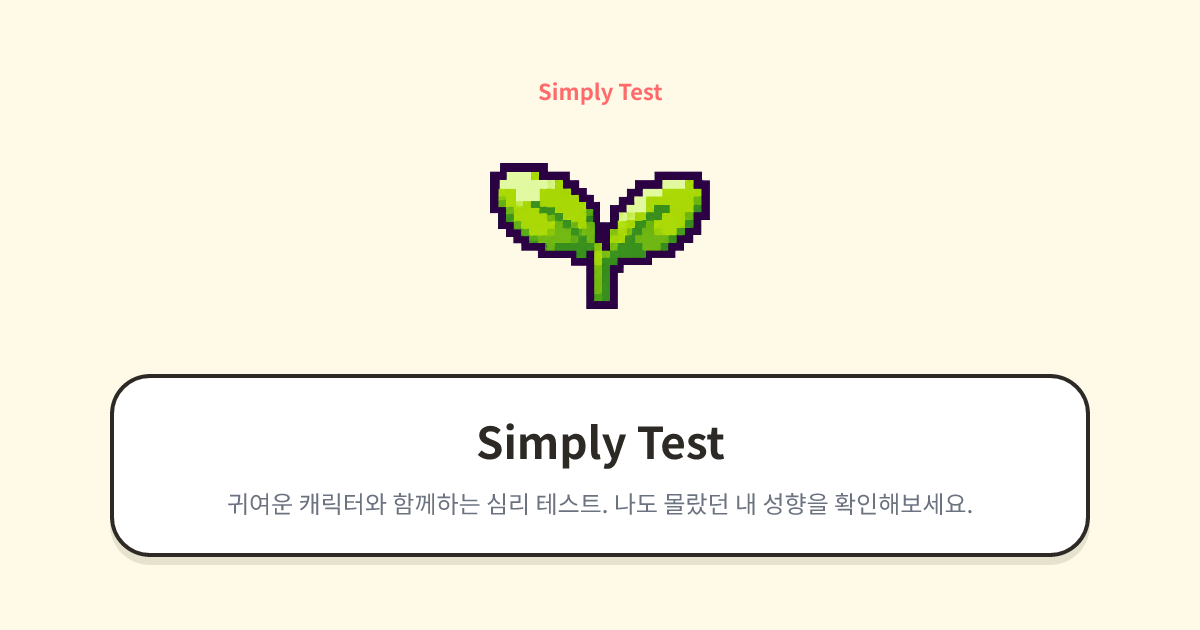
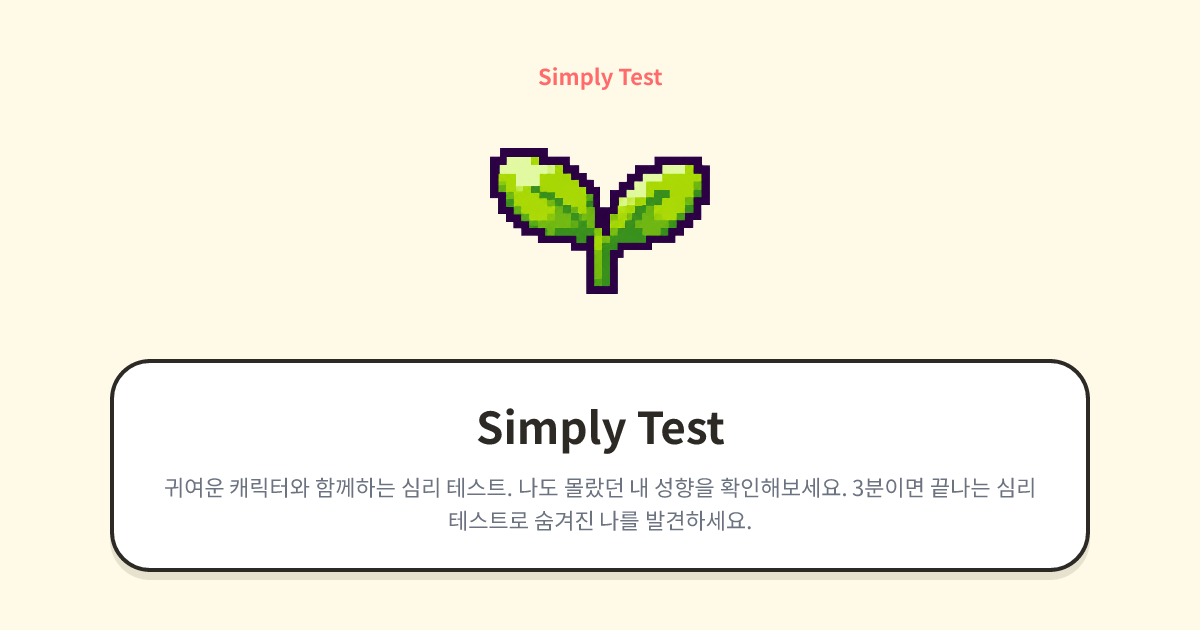
SEO 개선: 404 처리, 트레일링 슬래시, 성능 최적화
고우선순위 수정:
1. Trailing-slash 불일치 해결
   - wrangler.jsonc에 html_handling: drop-trailing-slash 설정
   - /tests/ → /tests로 리다이렉트 (307)
   - sitemap/canonical/og:url과 일관된 URL 구조

2. Soft 404 문제 해결
   - not_found_handling: 404-page로 변경
   - 404.html 생성 (noindex, nofollow 포함)
   - /nonexistent-xyz 등 잘못된 경로에서 실제 404 반환

3. 모바일 성능 개선
   - Pretendard 폰트 @import 제거, link rel=preload로 비동기 로딩
   - CDN, Supabase, jsdelivr 프리커넥트 추가
   - 히어로 이미지에 fetchPriority=high, width/height 속성 추가
   - 썸네일 이미지에 width/height 추가 (CLS 개선)

중우선순위 수정:
4. 사전 렌더링 HTML과 React 일치
   - TestDetail 페이지에 RecommendedTests 컴포넌트 추가
   - 다른 테스트도 해보세요 섹션 유지

5. JSON-LD 개선
   - 홈페이지에 WebSite + Organization 스키마 추가
   - 테스트 페이지에 Quiz + BreadcrumbList 스키마 추가

6. 캐시 헤더 추가
   - public/_headers 파일 생성
   - /assets/* immutable 캐시 (31536000초)
   - OG 이미지 1주일 캐시
   - HTML은 no-cache (must-revalidate)

7. 메타 정보 개선
   - 홈 타이틀에 심플리테스트 브랜드명 추가
   - og:site_name에 한국어 브랜드명 추가
   - 홈/목록 description 확장

저우선순위 수정:
8. 이미지 alt 텍스트 추가
9. robots.txt에서 불필요한 Disallow 제거 (/play, /result)
10. favicon.ico 링크 추가

남은 작업 (저장소 외부):
- 테스트별 짧은 description 확장 (Supabase 데이터)
- CDN 이미지 최적화 (cdn.simply-test.co.kr)

diff --git a/vite.config.ts b/vite.config.ts
@@ -241,7 +241,7 @@ function applyOgPlaceholders(
   if (meta.url) {
     result = result.replaceAll('__OG_URL__', meta.url)
   } else {
-    result = result.replace(/    <meta property="og:url" content="__OG_URL__" \/>\n/, '')
+    result = result.replace(/ {4}<meta property="og:url" content="__OG_URL__" \/>\n/, '')
   }
 
   return result
@@ -275,8 +275,6 @@ function buildRobotsTxt(origin: string) {
   const lines = [
     'User-agent: *',
     'Allow: /',
-    'Disallow: /tests/*/play',
-    'Disallow: /tests/*/result',
     'Disallow: /admin',
     'Disallow: /admin/',
   ]
@@ -286,6 +284,53 @@ function buildRobotsTxt(origin: string) {
   }
 
   return `${lines.join('\n')}\n`
+}
+
+function build404Html(origin: string, og: SiteOgConfig): string {
+  const imagePath = '/og/home.png'
+  return `<!doctype html>
+<html lang="ko">
+  <head>
+    <meta charset="UTF-8" />
+    <link rel="icon" type="image/png" sizes="32x32" href="/favicon-32.png" />
+    <link rel="icon" type="image/png" sizes="16x16" href="/favicon-16.png" />
+    <link rel="apple-touch-icon" sizes="192x192" href="/favicon-192.png" />
+    <meta name="viewport" content="width=device-width, initial-scale=1.0, viewport-fit=cover" />
+    <meta name="theme-color" content="#FBF3E6" />
+    <meta name="description" content="페이지를 찾을 수 없습니다." />
+    <meta name="robots" content="noindex, nofollow" />
+    <link rel="canonical" href="${origin}/" />
+    <meta property="og:site_name" content="${escapeAttr(og.siteName)}" />
+    <meta property="og:title" content="페이지를 찾을 수 없어요 | ${escapeAttr(og.siteName)}" />
+    <meta property="og:description" content="페이지를 찾을 수 없습니다." />
+    <meta property="og:image" content="${origin}${imagePath}" />
+    <meta property="og:image:width" content="1200" />
+    <meta property="og:image:height" content="630" />
+    <meta property="og:type" content="website" />
+    <meta property="og:locale" content="ko_KR" />
+    <meta name="twitter:card" content="summary_large_image" />
+    <meta name="twitter:title" content="페이지를 찾을 수 없어요 | ${escapeAttr(og.siteName)}" />
+    <meta name="twitter:description" content="페이지를 찾을 수 없습니다." />
+    <meta name="twitter:image" content="${origin}${imagePath}" />
+    <title>페이지를 찾을 수 없어요 | ${escapeAttr(og.siteName)}</title>
+    <style>
+      body{font-family:'Pretendard','Apple SD Gothic Neo','Noto Sans KR',sans-serif;background:#fbf3e6;margin:0;min-height:100vh;display:flex;align-items:center;justify-content:center}
+      .container{text-align:center;padding:2rem}
+      h1{font-size:1.5rem;color:#1f1535;margin-bottom:0.5rem}
+      p{color:#756884;margin-bottom:1.5rem}
+      a{display:inline-flex;align-items:center;justify-content:center;height:3rem;padding:0 1.5rem;background:#e0527c;color:#fff;border-radius:9999px;text-decoration:none;font-weight:700}
+      a:hover{background:#c8456b}
+    </style>
+  </head>
+  <body>
+    <div class="container">
+      <h1>페이지를 찾을 수 없어요</h1>
+      <p>요청하신 페이지가 존재하지 않습니다.</p>
+      <a href="/">홈으로 돌아가기</a>
+    </div>
+  </body>
+</html>
+`
 }
 
 /** 로컬 개발에서만 미공개(publish_at 미래) 테스트까지 보여준다.
@@ -389,6 +434,7 @@ function injectOgMeta(siteUrl: string, og: SiteOgConfig, tests: TestRouteSource[
 
       fs.writeFileSync(path.join(outDir, 'sitemap.xml'), buildSitemapXml(origin, routes))
       fs.writeFileSync(path.join(outDir, 'robots.txt'), buildRobotsTxt(origin))
+      fs.writeFileSync(path.join(outDir, '404.html'), build404Html(origin, og))
     },
   }
 }

diff --git a/index.html b/index.html
@@ -2,15 +2,31 @@
 <html lang="ko">
   <head>
     <meta charset="UTF-8" />
+    <link rel="icon" href="/favicon.ico" sizes="48x48" />
     <link rel="icon" type="image/png" sizes="32x32" href="/favicon-32.png" />
     <link rel="icon" type="image/png" sizes="16x16" href="/favicon-16.png" />
     <link rel="apple-touch-icon" sizes="192x192" href="/favicon-192.png" />
     <meta name="viewport" content="width=device-width, initial-scale=1.0, viewport-fit=cover" />
     <meta name="theme-color" content="#FBF3E6" />
+
+    <!-- Preconnect to external origins for faster resource loading -->
+    <link rel="preconnect" href="https://cdn.simply-test.co.kr" crossorigin />
+    <link rel="preconnect" href="https://yaibpmwngogryehwmlma.supabase.co" crossorigin />
+    <link rel="preconnect" href="https://cdn.jsdelivr.net" crossorigin />
+
+    <!-- Preload critical fonts -->
+    <link rel="preload" href="https://cdn.jsdelivr.net/gh/orioncactus/pretendard@v1.3.9/dist/web/static/woff2/Pretendard-Regular.woff2" as="font" type="font/woff2" crossorigin />
+    <link rel="preload" href="https://cdn.jsdelivr.net/gh/orioncactus/pretendard@v1.3.9/dist/web/static/woff2/Pretendard-Bold.woff2" as="font" type="font/woff2" crossorigin />
+    <link rel="preload" href="https://cdn.jsdelivr.net/gh/orioncactus/pretendard@v1.3.9/dist/web/static/woff2/Pretendard-ExtraBold.woff2" as="font" type="font/woff2" crossorigin />
+
+    <!-- Non-blocking font stylesheet -->
+    <link rel="stylesheet" href="https://cdn.jsdelivr.net/gh/orioncactus/pretendard@v1.3.9/dist/web/static/pretendard.min.css" media="print" onload="this.media='all'" />
+    <noscript><link rel="stylesheet" href="https://cdn.jsdelivr.net/gh/orioncactus/pretendard@v1.3.9/dist/web/static/pretendard.min.css" /></noscript>
+
     <meta name="description" content="__OG_DESCRIPTION__" />
     <meta name="robots" content="__ROBOTS__" />
     <link rel="canonical" href="__CANONICAL_URL__" />
-    <meta property="og:site_name" content="Simply Test" />
+    <meta property="og:site_name" content="심플리테스트 | Simply Test" />
     <meta property="og:title" content="__OG_TITLE__" />
     <meta property="og:description" content="__OG_DESCRIPTION__" />
     <meta property="og:image" content="__OG_IMAGE__" />

diff --git a/src/lib/jsonLd.ts b/src/lib/jsonLd.ts
@@ -2,24 +2,61 @@ import type { TestDefinition } from '../types/test'
 import { SITE_NAME } from './site'
 
 export function buildWebSiteJsonLd(origin: string) {
-  return {
-    '@context': 'https://schema.org',
-    '@type': 'WebSite',
-    name: SITE_NAME,
-    url: origin,
-    inLanguage: 'ko-KR',
-  }
+  return [
+    {
+      '@context': 'https://schema.org',
+      '@type': 'WebSite',
+      name: SITE_NAME,
+      alternateName: '심플리테스트',
+      url: origin,
+      inLanguage: 'ko-KR',
+    },
+    {
+      '@context': 'https://schema.org',
+      '@type': 'Organization',
+      name: SITE_NAME,
+      alternateName: '심플리테스트',
+      url: origin,
+      logo: `${origin}/brand-logo.png`,
+    },
+  ]
 }
 
 export function buildQuizJsonLd(test: TestDefinition, origin: string) {
-  return {
-    '@context': 'https://schema.org',
-    '@type': 'Quiz',
-    name: test.title,
-    description: test.description,
-    url: `${origin}/tests/${test.id}`,
-    inLanguage: 'ko-KR',
-    numberOfQuestions: test.questions.length,
-    educationalLevel: 'general',
-  }
+  return [
+    {
+      '@context': 'https://schema.org',
+      '@type': 'Quiz',
+      name: test.title,
+      description: test.description,
+      url: `${origin}/tests/${test.id}`,
+      inLanguage: 'ko-KR',
+      numberOfQuestions: test.questions.length,
+      educationalLevel: 'general',
+    },
+    {
+      '@context': 'https://schema.org',
+      '@type': 'BreadcrumbList',
+      itemListElement: [
+        {
+          '@type': 'ListItem',
+          position: 1,
+          name: '홈',
+          item: origin,
+        },
+        {
+          '@type': 'ListItem',
+          position: 2,
+          name: '테스트 목록',
+          item: `${origin}/tests`,
+        },
+        {
+          '@type': 'ListItem',
+          position: 3,
+          name: test.title,
+          item: `${origin}/tests/${test.id}`,
+        },
+      ],
+    },
+  ]
 }

diff --git a/src/pages/TestDetail.tsx b/src/pages/TestDetail.tsx
@@ -1,6 +1,7 @@
 import { useNavigate, useParams } from 'react-router-dom'
 import { resolveCharacterImage } from '../lib/characters'
 import PageLayout from '../components/PageLayout'
+import RecommendedTests from '../components/RecommendedTests'
 import StickerCard from '../components/StickerCard'
 import { AlertIcon, ClockIcon, DocumentIcon, LayersIcon } from '../components/icons'
 import { useTest } from '../lib/useTests'
@@ -62,6 +63,8 @@ export default function TestDetail() {
               src={thumbnailSrc}
               alt=""
               aria-hidden
+              width={160}
+              height={160}
               className="absolute inset-0 h-full w-full scale-110 object-cover opacity-35 blur-sm"
             />
             <div className="absolute inset-0 bg-[linear-gradient(180deg,rgba(11,5,37,0.18),rgba(11,5,37,0.96))]" />
@@ -71,7 +74,9 @@ export default function TestDetail() {
         <div className="relative">
           <img
             src={thumbnailSrc}
-            alt=""
+            alt={`${test.title} 캐릭터`}
+            width={isHalloween ? 160 : 96}
+            height={isHalloween ? 160 : 96}
             className={`mx-auto object-cover ${
               isHalloween
                 ? 'mb-4 h-40 w-40 rounded-xl border-2 border-[#ffb247] shadow-[0_0_28px_rgba(255,148,47,0.35)]'
@@ -150,6 +155,12 @@ export default function TestDetail() {
         시작하기
         <span aria-hidden>→</span>
       </button>
+
+      <RecommendedTests
+        excludeTestId={test.id}
+        className="mt-10"
+        theme={isHalloween ? 'halloween' : 'default'}
+      />
     </PageLayout>
   )
 }

diff --git a/src/components/TestListCard.tsx b/src/components/TestListCard.tsx
@@ -24,7 +24,9 @@ export default function TestListCard({ test, showQuestionCount = false }: TestLi
       >
         <img
           src={resolveCharacterImage(test.thumbnailCharacter ?? 'adapted')}
-          alt=""
+          alt={`${test.title} 썸네일`}
+          width={56}
+          height={56}
           className={`h-14 w-14 shrink-0 ${
             isHalloween
               ? 'rounded-lg border-2 border-[#ffb247] object-cover'

diff --git a/src/pages/Main.tsx b/src/pages/Main.tsx
@@ -19,6 +19,9 @@ export default function Main() {
           <img
             src={pixelCharacterPath('main_hero')}
             alt="토끼, 곰, 강아지, 고양이, 여우가 함께 모여 있는 모습"
+            width={240}
+            height={240}
+            fetchPriority="high"
             className="hero-float h-full w-auto object-contain drop-shadow-[0_18px_22px_rgba(31,21,53,0.18)]"
           />
         </div>

diff --git a/src/components/RecommendedTests.tsx b/src/components/RecommendedTests.tsx
@@ -23,7 +23,7 @@ export default function RecommendedTests({
           theme === 'halloween' ? 'text-[#d9c9ef]' : 'text-muted'
         }`}
       >
-        추천 심리 테스트
+        다른 테스트도 해보세요
       </h2>
       <div className="space-y-3">
         {tests.map((test) => (

diff --git a/src/lib/site.ts b/src/lib/site.ts
@@ -1,6 +1,7 @@
 import og from './og.json' with { type: 'json' }
 
 export const SITE_NAME = og.siteName
+export const SITE_NAME_KO = '심플리테스트'
 export const INSTAGRAM_HANDLE = 'ssimplytest'
 export const INSTAGRAM_URL = `https://www.instagram.com/${INSTAGRAM_HANDLE}/`
 

diff --git a/src/index.css b/src/index.css
@@ -1,4 +1,3 @@
-@import 'https://cdn.jsdelivr.net/gh/orioncactus/pretendard@v1.3.9/dist/web/static/pretendard.min.css';
 @import 'tailwindcss';
 
 @font-face {
